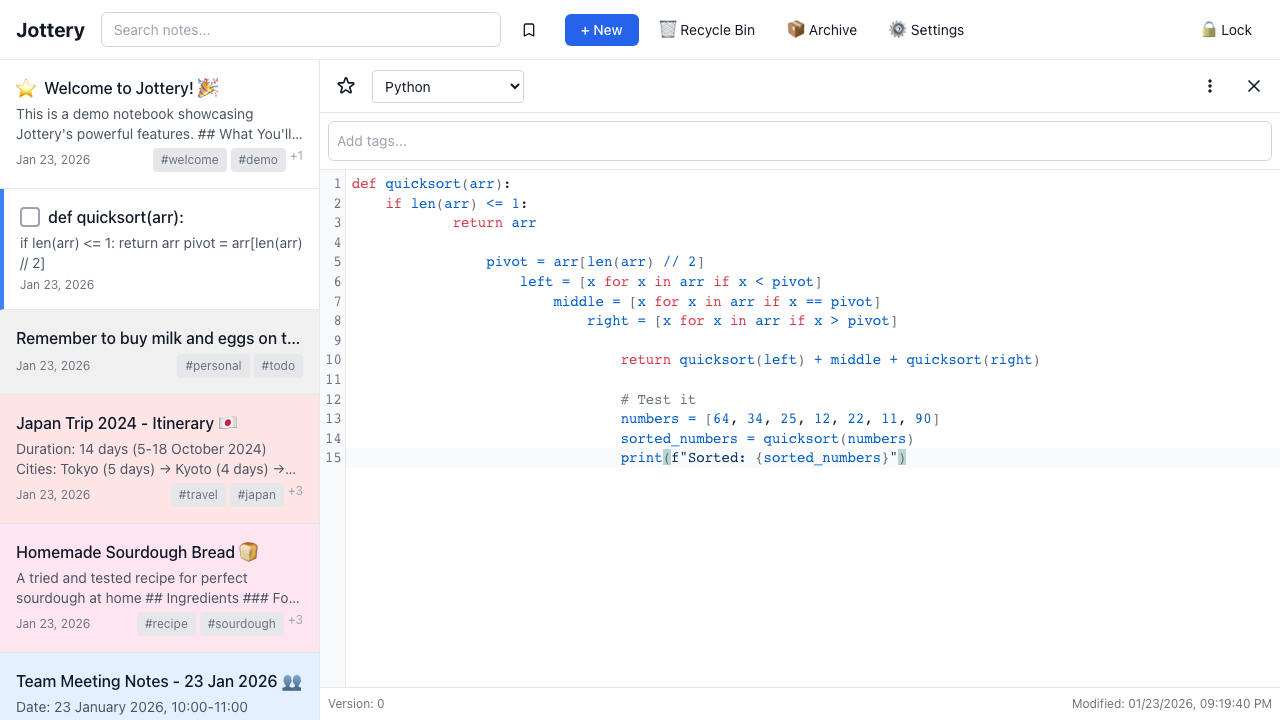
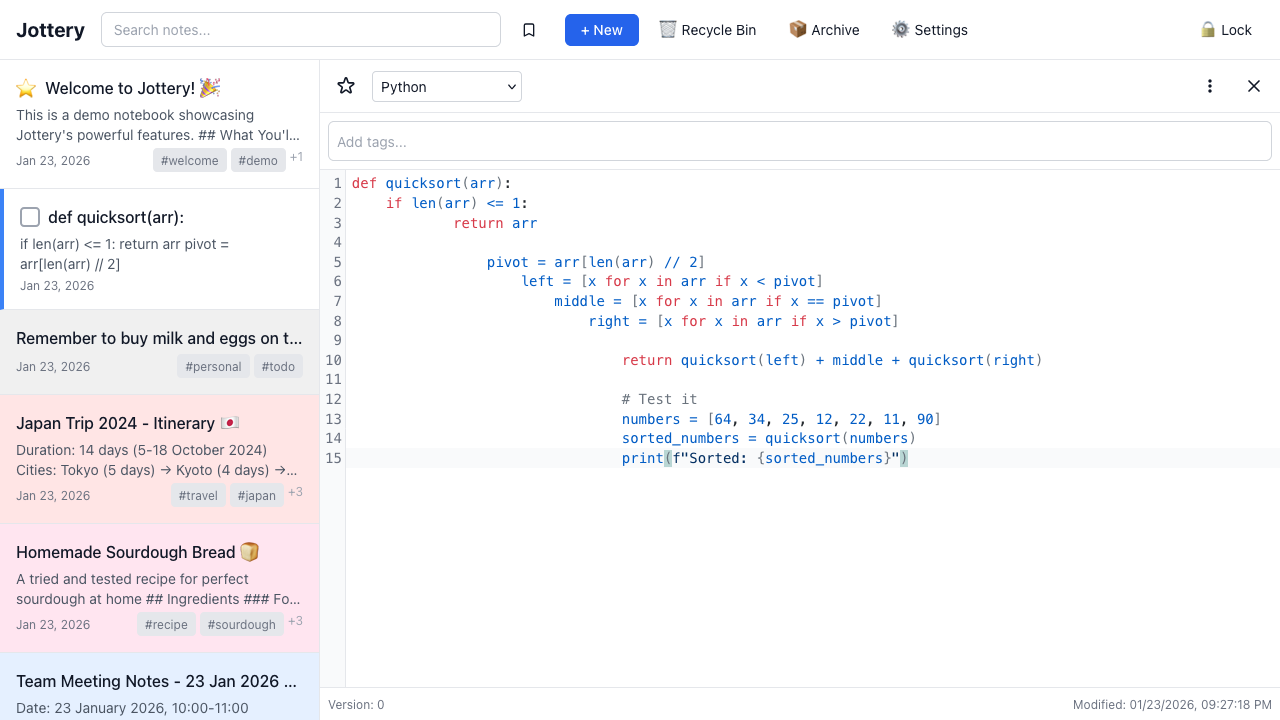
fix: Use Firefox for screenshot generation instead of Chromium
Switched to Firefox for generating landing page screenshots due to
Chromium rendering issues with theme switching. Manual testing confirmed
themes work correctly in the app, but Chromium has a rendering bug when
applying theme changes programmatically during screenshot capture.

Changes:
- Regenerated all screenshots using Firefox
- Updated test documentation to specify Firefox usage
- All screenshots now show correct theme colors

diff --git a/e2e/screenshots.spec.ts b/e2e/screenshots.spec.ts
@@ -1,6 +1,7 @@
 /**
  * Screenshot generation for landing page placeholders
- * Run with: npx playwright test screenshots --project=chromium
+ * Run with: npx playwright test screenshots --project=firefox
+ * Note: Firefox is used instead of Chromium due to rendering issues with theme switching
  * Screenshots will be saved to: screenshots/
  */
 
